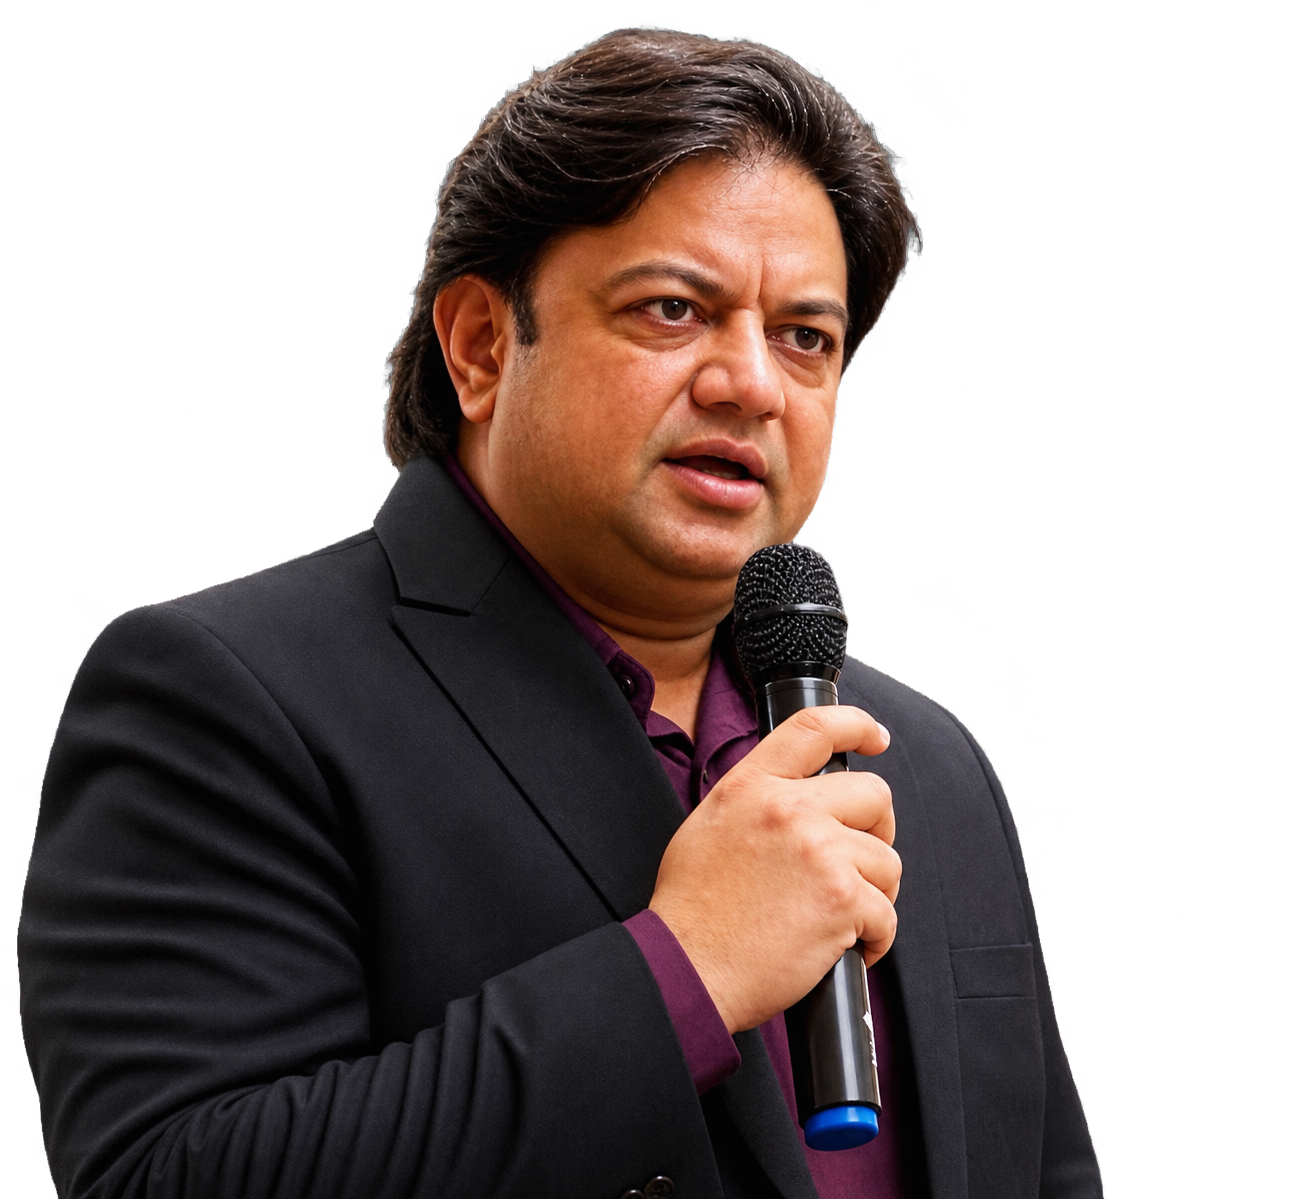
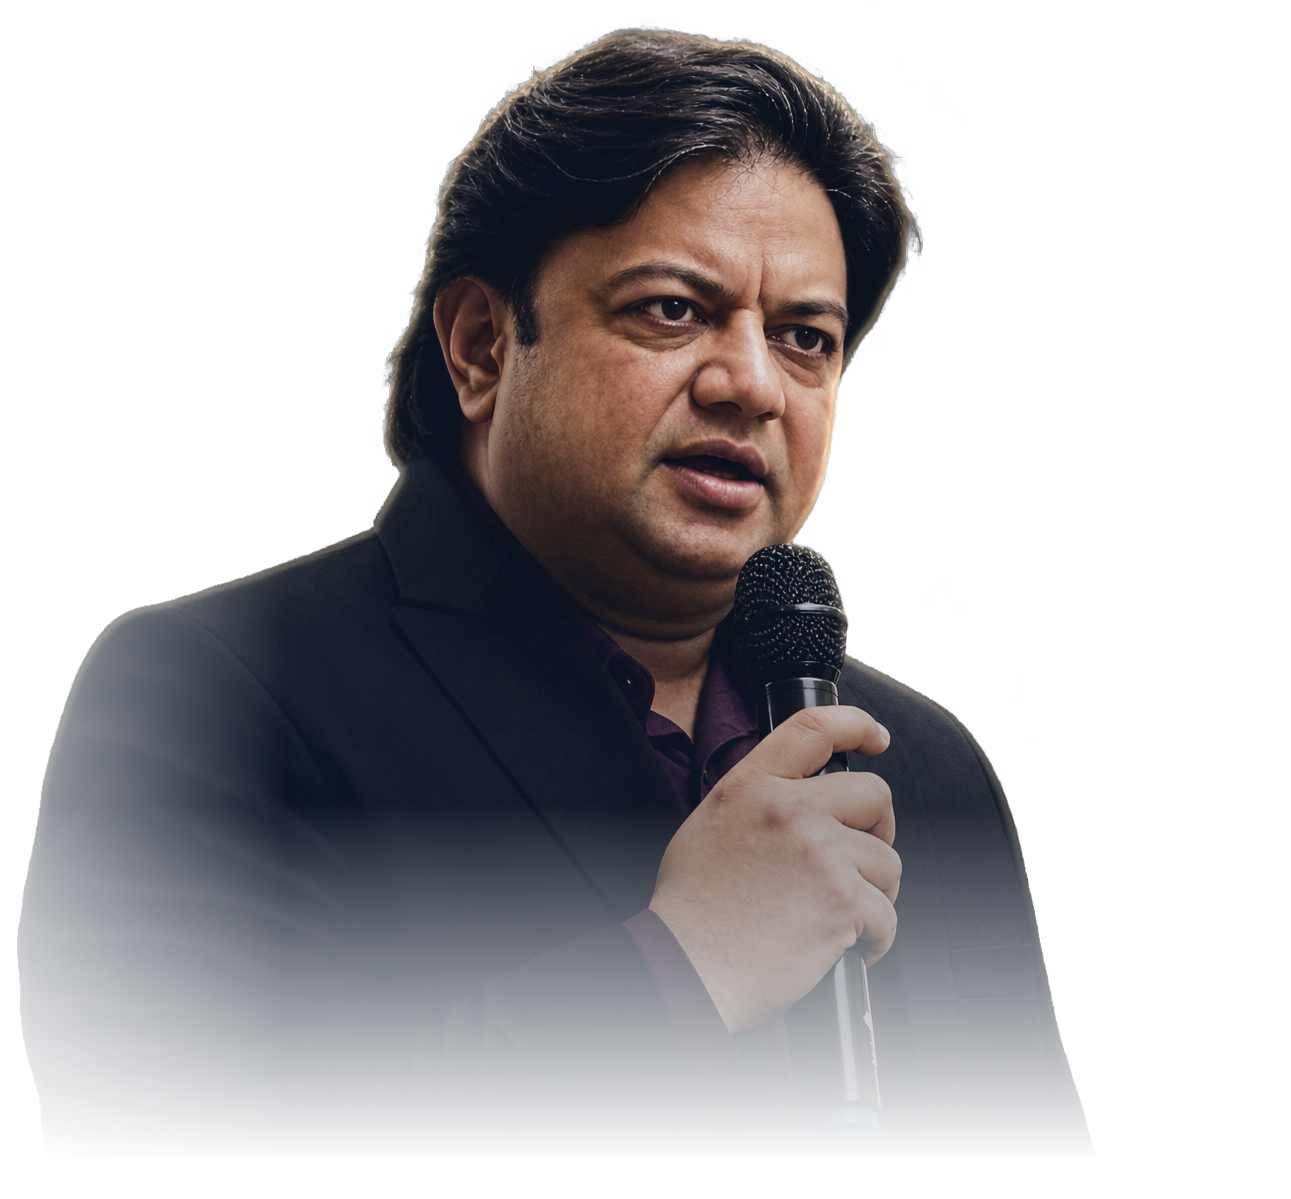
Swapnil Kothari pitch: grade hero cutout into the navy scene
Colour-graded and rim-lit cutout with faded edges, soft spotlight instead of
red glow, tighter tablet and phone hero layout.

Claude-Session: https://claude.ai/code/session_01EaEH35XAuHE5fdjGw2Tcxc

diff --git a/pitch/swapnil-kothari/index.html b/pitch/swapnil-kothari/index.html
@@ -81,7 +81,7 @@ h2{font-size:clamp(2.3rem,4.2vw,4.1rem);line-height:1.06}
 .hero .sub{font:300 clamp(1.05rem,1.4vw,1.25rem)/1.6 var(--sans);color:rgba(243,239,230,.82);max-width:30em;margin:0 0 40px}
 .cta-row{display:flex;flex-wrap:wrap;gap:14px}
 .cut{position:relative;align-self:end;justify-self:end;width:min(108%,700px);margin-right:-4%;margin-bottom:-90px}
-.cut .orbit{position:absolute;left:6%;top:-6%;width:88%;height:auto;overflow:visible;z-index:0}
+.cut .orbit{position:absolute;left:14%;top:-10%;width:84%;opacity:.8;height:auto;overflow:visible;z-index:0}
 .cut .globe{transform-origin:300px 300px;animation:tilt 40s ease-in-out infinite alternate}
 .cut .mer{transform-origin:300px 300px;transform-box:view-box;animation:spin3d 16s linear infinite}
 .cut .m2{animation-delay:-4s}.cut .m3{animation-delay:-8s}.cut .m4{animation-delay:-12s}
@@ -90,22 +90,24 @@ h2{font-size:clamp(2.3rem,4.2vw,4.1rem);line-height:1.06}
 @keyframes spin3d{0%{transform:scaleX(1)}25%{transform:scaleX(0)}50%{transform:scaleX(-1)}75%{transform:scaleX(0)}100%{transform:scaleX(1)}}
 @keyframes rot{to{transform:rotate(360deg)}}
 @keyframes tilt{from{transform:rotate(-8deg)}to{transform:rotate(8deg)}}
-.hero:before{content:"";position:absolute;inset:-20%;z-index:-1;pointer-events:none;background:radial-gradient(30% 30% at 70% 40%,rgba(156,38,48,.16),transparent 70%),radial-gradient(35% 35% at 85% 75%,rgba(185,154,98,.12),transparent 70%);animation:drift 22s ease-in-out infinite alternate}
-@keyframes drift{from{transform:translate3d(-3%,-2%,0)}to{transform:translate3d(3%,3%,0)}}
+.hero:before{content:"";position:absolute;inset:-10%;z-index:-1;pointer-events:none;background:radial-gradient(28% 38% at 74% 42%,rgba(46,74,118,.55),transparent 70%),radial-gradient(22% 26% at 80% 30%,rgba(185,154,98,.10),transparent 70%);animation:drift 24s ease-in-out infinite alternate}
+@keyframes drift{from{transform:translate3d(-1.5%,-1%,0) scale(1)}to{transform:translate3d(1.5%,1.5%,0) scale(1.05)}}
+@media(max-width:560px){.cut .chip{display:none}.cut{margin-bottom:-24px}}
 @media(prefers-reduced-motion:reduce){.cut .globe,.cut .mer,.cut .ring-spin,.cut .ring-spin2,.hero:before{animation:none}}
 .cut picture{position:relative;z-index:1}
-.cut img{width:100%;height:auto;-webkit-mask-image:linear-gradient(180deg,#000 78%,transparent 99%);mask-image:linear-gradient(180deg,#000 78%,transparent 99%);filter:drop-shadow(0 30px 60px rgba(0,0,0,.45))}
-.cut .chip{position:absolute;z-index:2;left:2%;bottom:24%;background:rgba(15,29,50,.78);backdrop-filter:blur(10px);-webkit-backdrop-filter:blur(10px);border:1px solid rgba(185,154,98,.35);padding:14px 18px;max-width:260px}
+.cut img{width:100%;height:auto}
+.cut .chip{position:absolute;z-index:2;left:-6%;bottom:22%;background:rgba(15,29,50,.78);backdrop-filter:blur(10px);-webkit-backdrop-filter:blur(10px);border:1px solid rgba(185,154,98,.35);padding:14px 18px;max-width:260px}
 .cut .chip b{display:block;font:500 18px/1.25 var(--serif)}
 .cut .chip span{display:block;margin-top:6px;font:600 10px/1.4 var(--sans);letter-spacing:.16em;text-transform:uppercase;color:var(--gold-soft)}
 .hero-meta{position:absolute;left:0;right:0;bottom:0;z-index:3;background:linear-gradient(0deg,#0F1D32 40%,rgba(15,29,50,0))}
 .hero-foot{display:flex;justify-content:space-between;gap:20px;padding:18px 0 22px;border-top:1px solid rgba(185,154,98,.22);font:500 11.5px/1.4 var(--sans);letter-spacing:.12em;text-transform:uppercase;color:rgba(243,239,230,.6)}
 @media(max-width:900px){
-  .hero .wrap.main{grid-template-columns:1fr;gap:10px;padding-top:96px;padding-bottom:80px;align-items:start}
-  .cut{order:-1;justify-self:center;width:min(100%,440px);margin:0}
-  .cut .chip{left:0;bottom:8%;max-width:210px;padding:10px 14px}
+  .hero .wrap.main{grid-template-columns:1fr;gap:0;padding-top:76px;padding-bottom:80px;align-items:start;align-content:center}
+  .cut{order:-1;justify-self:center;width:min(112%,620px);margin:0 -6% -40px}
+  .cut .chip{left:6%;bottom:16%;max-width:220px;padding:10px 14px}
   .cut .chip b{font-size:14px}
   .cut .sig{display:none}
+  .hero:before{background:radial-gradient(45% 30% at 52% 24%,rgba(46,74,118,.6),transparent 70%)}
   .hero .wm{top:22%;font-size:70vw}
   .hero-foot span:nth-child(2){display:none}
 }
